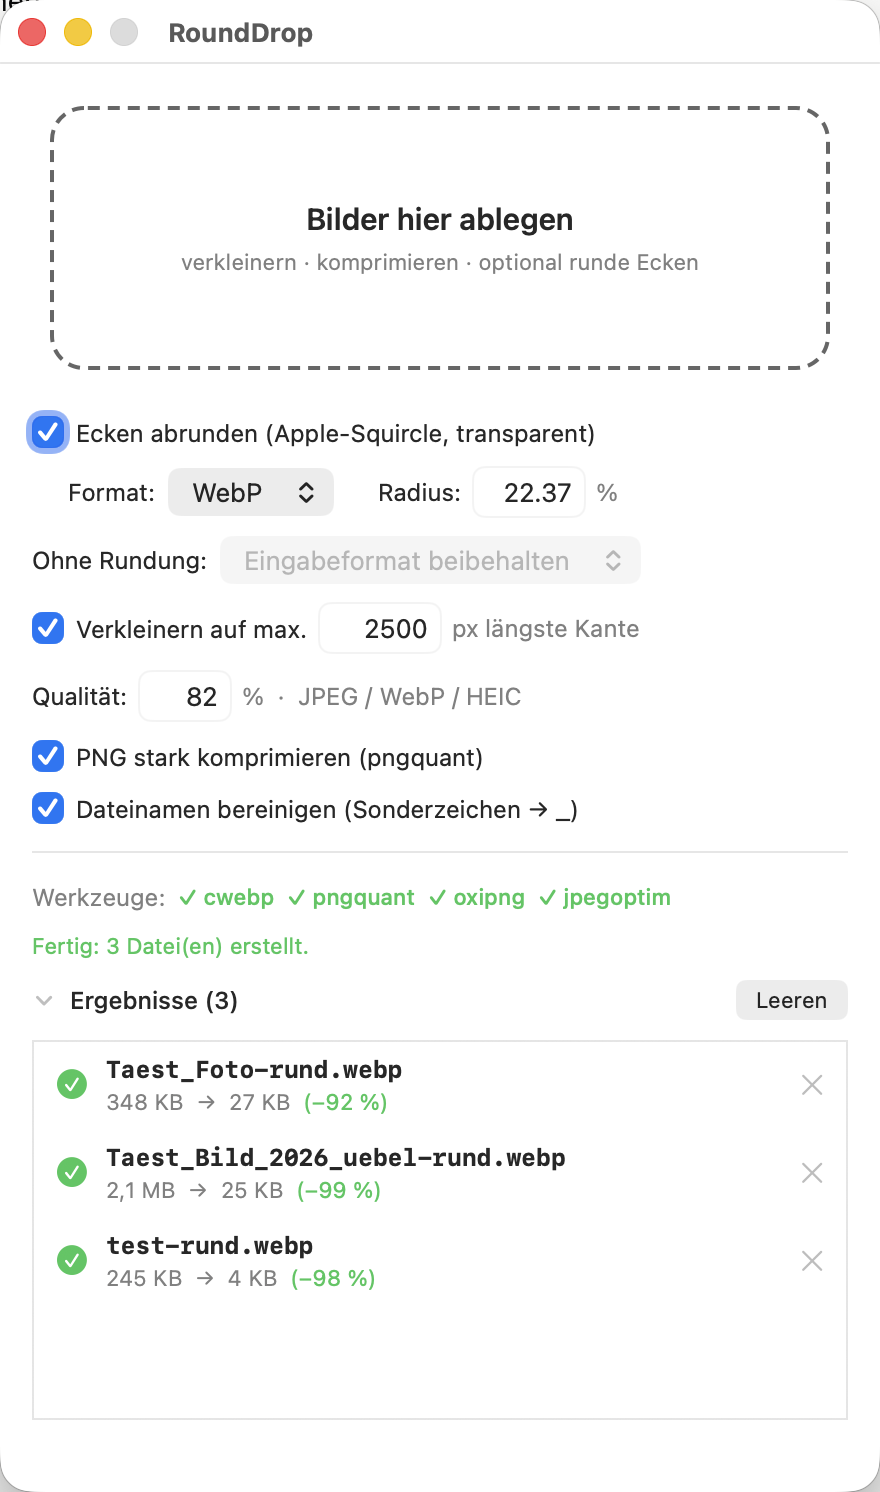
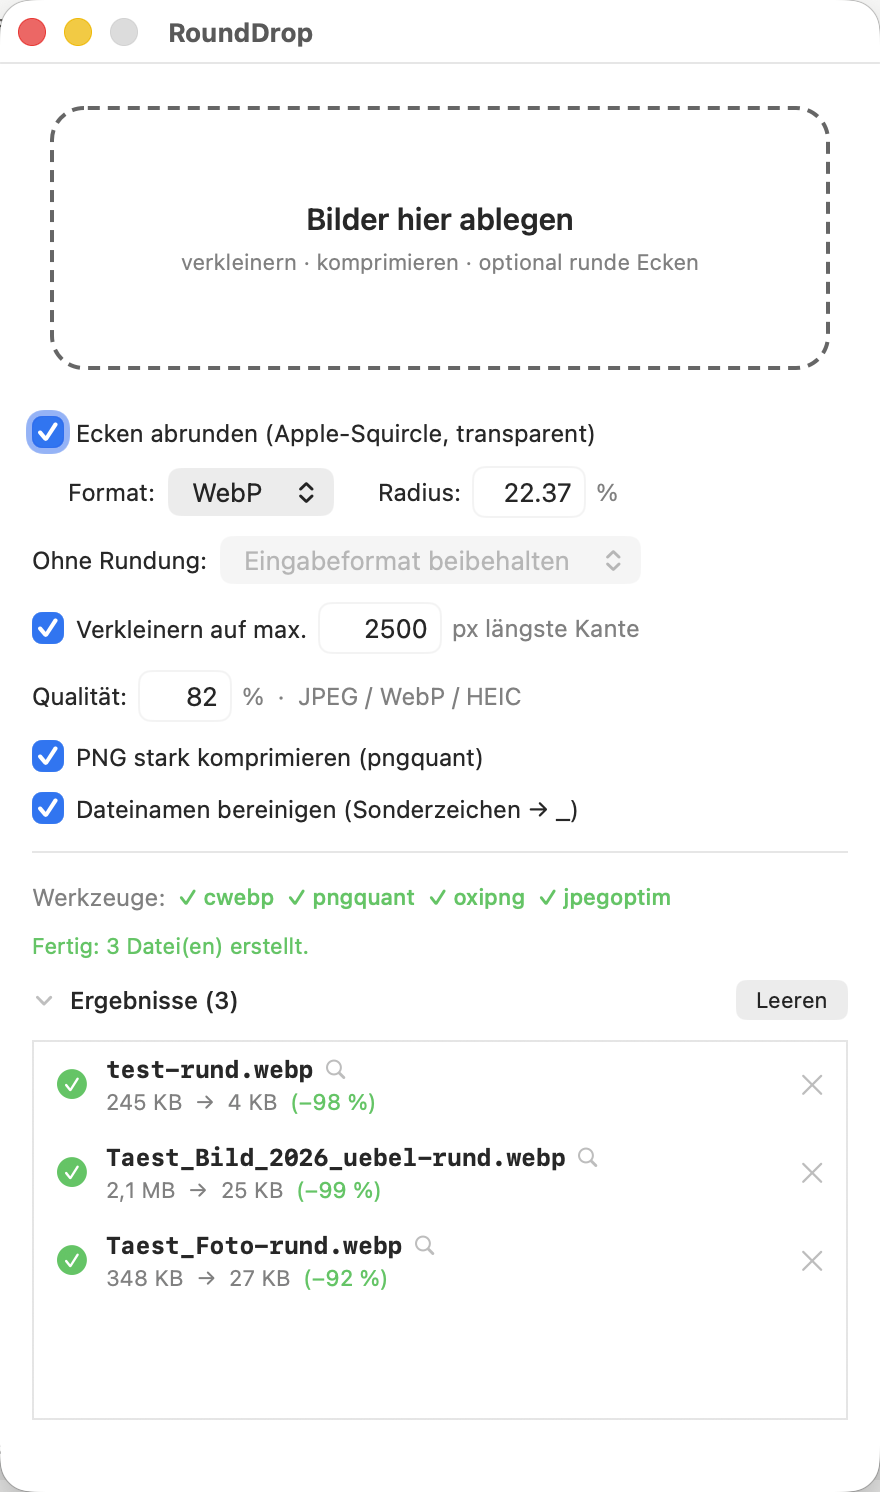
Ergebnisliste: Abarbeitung von oben nach unten, Lupe als Finder-Hinweis
Neue Stapel stehen als Block oben, aber in Ablage-Reihenfolge – die
oberste Zeile wird zuerst fertig. Kleines Lupensymbol neben dem
Dateinamen signalisiert, dass ein Klick die Datei im Finder zeigt.

Changed region(s): [[0.1227, 0.8324, 0.4602, 0.8633], [0.1227, 0.7091, 0.4602, 0.7399]]

diff --git a/Sources/main.swift b/Sources/main.swift
@@ -415,6 +415,7 @@ final class ResultRowView: NSView {
     var onClose: (() -> Void)?
 
     private let icon = NSImageView()
+    private let revealIcon = NSImageView()
     private let nameLabel: NSTextField
     private let subLabel: NSTextField
     private static let sizeFormatter: ByteCountFormatter = {
@@ -431,8 +432,14 @@ final class ResultRowView: NSView {
 
         nameLabel.font = .monospacedSystemFont(ofSize: 12, weight: .bold)
         nameLabel.lineBreakMode = .byTruncatingMiddle
-        nameLabel.setContentHuggingPriority(.defaultLow, for: .horizontal)
         nameLabel.setContentCompressionResistancePriority(.defaultLow, for: .horizontal)
+
+        // Lupe = „Klick zeigt die Datei im Finder“; erscheint, sobald die Datei fertig ist
+        revealIcon.image = NSImage(systemSymbolName: "magnifyingglass",
+                                   accessibilityDescription: "im Finder zeigen")
+        revealIcon.symbolConfiguration = NSImage.SymbolConfiguration(pointSize: 10, weight: .medium)
+        revealIcon.contentTintColor = .tertiaryLabelColor
+        revealIcon.isHidden = true
         subLabel.font = .systemFont(ofSize: 11)
         subLabel.textColor = .secondaryLabelColor
         subLabel.lineBreakMode = .byTruncatingTail
@@ -449,7 +456,12 @@ final class ResultRowView: NSView {
         close.isBordered = false
         close.contentTintColor = .tertiaryLabelColor
 
-        let textStack = NSStackView(views: [nameLabel, subLabel])
+        let nameRow = NSStackView(views: [nameLabel, revealIcon])
+        nameRow.orientation = .horizontal
+        nameRow.alignment = .centerY
+        nameRow.spacing = 5
+
+        let textStack = NSStackView(views: [nameRow, subLabel])
         textStack.orientation = .vertical
         textStack.alignment = .leading
         textStack.spacing = 2
@@ -480,6 +492,7 @@ final class ResultRowView: NSView {
             icon.image = NSImage(systemSymbolName: "checkmark.circle.fill",
                                  accessibilityDescription: "fertig")
             icon.contentTintColor = .systemGreen
+            revealIcon.isHidden = false
 
             let inBytes = fileBytes(inputURL)
             let outBytes = fileBytes(output)
@@ -912,18 +925,22 @@ final class AppDelegate: NSObject, NSApplicationDelegate {
         // Liste automatisch ausklappen, sobald verarbeitet wird
         if resultsScroll.isHidden { setResultsExpanded(true) }
 
+        // Neuer Stapel kommt als Block nach oben, aber in Ablage-Reihenfolge:
+        // oberste Zeile wird zuerst abgearbeitet (von oben nach unten)
         var rows: [ResultRowView] = []
-        for url in urls {
+        for (index, url) in urls.enumerated() {
             let rowView = ResultRowView(inputURL: url)
             rowView.onClose = { [weak self, weak rowView] in
                 guard let self, let rowView else { return }
                 rowView.removeFromSuperview()
                 self.updateResultsCount()
             }
-            resultsStack.insertArrangedSubview(rowView, at: 0)
+            resultsStack.insertArrangedSubview(rowView, at: index)
             rowView.widthAnchor.constraint(equalTo: resultsStack.widthAnchor).isActive = true
             rows.append(rowView)
         }
+        resultsScroll.contentView.scroll(to: .zero)
+        resultsScroll.reflectScrolledClipView(resultsScroll.contentView)
         // Liste begrenzen, damit sie nicht endlos wächst
         while resultsStack.arrangedSubviews.count > 200 {
             resultsStack.arrangedSubviews.last?.removeFromSuperview()